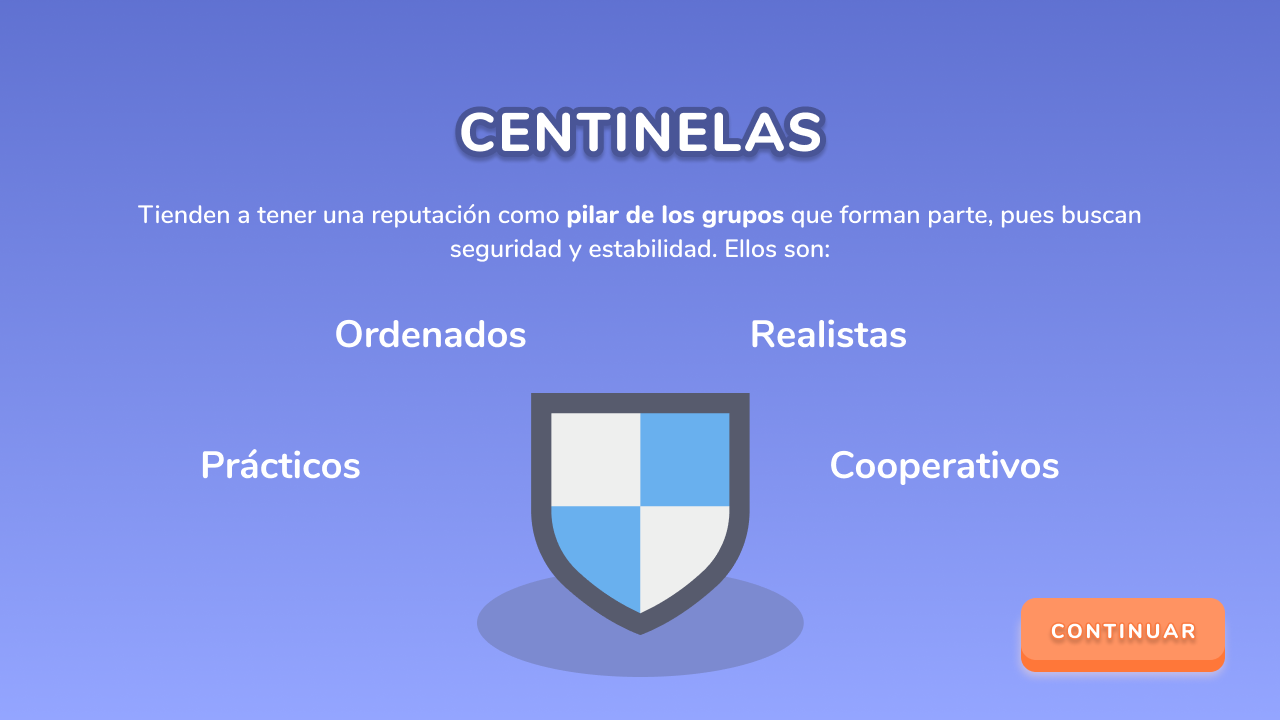
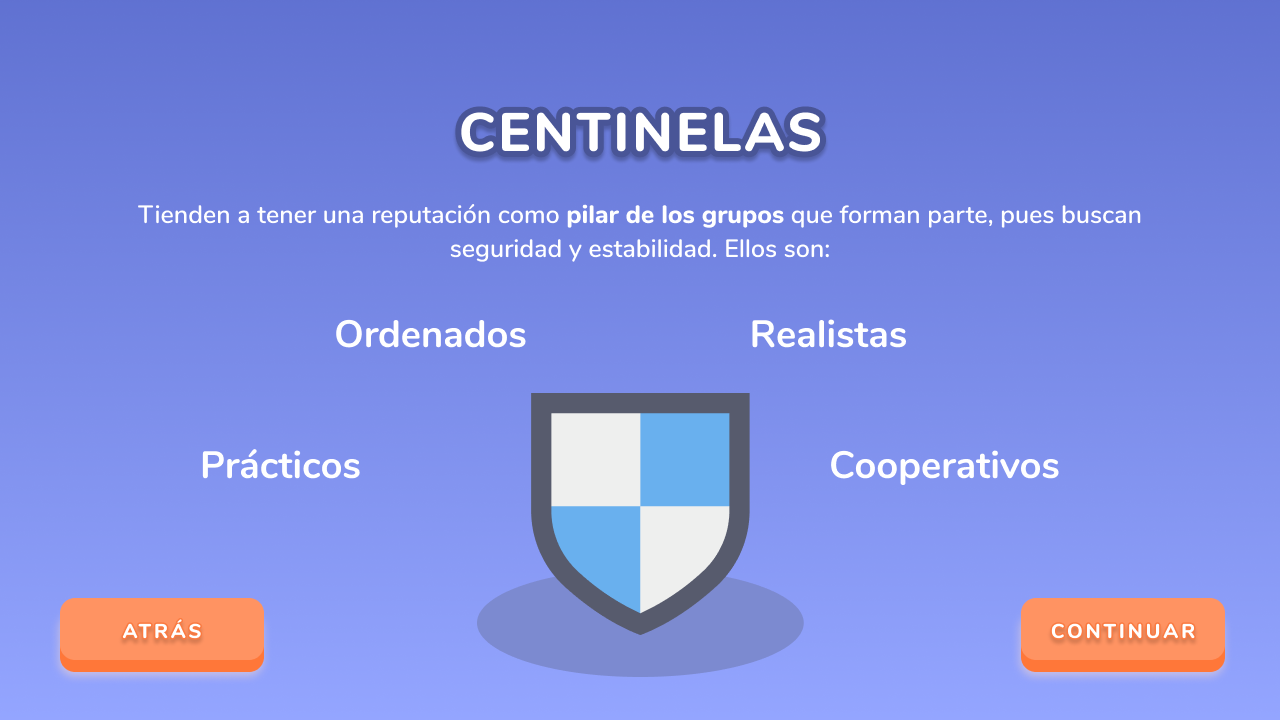
cambios ultimos

Changed region(s): [[0.0312, 0.825, 0.2188, 0.9472]]

diff --git a/Js/main.js b/Js/main.js
@@ -1,5 +1,5 @@
 let pantalla = 0;
-let postulante = 'David';
+let postulante = '';
 let cargo = 'original';
 
 let characters = [];
@@ -17,6 +17,11 @@ let diplomatico;
 let centinela = false;
 let explorador = false;
 
+let viewDavid = false;
+let viewCamila = false;
+let viewJhon = false;
+let viewEstefania = false;
+
 let timer;
 let counter = 300;
 let seconds, minutes;
@@ -24,6 +29,7 @@ let tiempo;
 
 let send = false;
 let wrong = false;
+let adBoolean = false;
 let timeAd = false;
 let locked = false;
 let nivel2 = false;
@@ -35,8 +41,6 @@ let finish = false;
 let validar = true;
 let estado = '';
 let logic = new Logic();
-
-
 
 function setup() {
 
@@ -58,6 +62,8 @@ function preload() {
     instruccionOpciones = loadImage('./resources/instruccionesOpciones.png');
     instruccionArquetipo = loadImage('./resources/arqInt.png');
     instruccionPuesto = loadImage('./resources/puestoInt.png');
+    instrucconError = loadImage('./resources/instruccionesError.png');
+    instruccionInfo = loadImage('./resources/instruccionInfo.png');
     gif1 = loadImage('./resources/nuevoGifDef1.gif');
     gif2 = loadImage('./resources/nuevoGifDef2.gif');
 
@@ -81,6 +87,7 @@ function preload() {
     btnContinuar2 = loadImage('./resources/btnContinuarGris.png');
     btnContinuarPresionado = loadImage('./resources/contPres.png');
     btnFinalizar = loadImage('./resources/btnFinalizar.png');
+    btnAtras = loadImage('./resources/btnAtras.png');
 
     btnArquetipo = loadImage('./resources/BotonArqueotipo.png');
     btnCandidatos = loadImage('./resources/botonCandidatos.png');
@@ -143,6 +150,7 @@ function preload() {
     confirmation = loadImage('resources/Confirmacion.png');
     candidatosBloqueado = loadImage('resources/candidatosBloqueado.png');
     arqueotiposBloqueado = loadImage('resources/arqueotiposBloqueado.png');
+    adCv = loadImage ('resources/viewCandidatos.png');
 
 }
 
@@ -198,6 +206,7 @@ function draw() {
                     break;
             }
             if (nivel2) image(btnVolverNormal, 1022, 610);
+            if(adBoolean) image(adCv,0,0);
             break;
         //INSTRUCCIONES DE TIEMPO
         case 8:
@@ -224,9 +233,9 @@ function draw() {
                 image(btnContinuar2,527, 625);
             }
             logic.paintCharacter();
-            fill(255, 0, 0);
+            fill(255);
             noStroke();
-            text("Errores : " + erroresNivel1, 1085, 130);
+            text(erroresNivel1, 1211, 152);
             break;
         //RESUMEN ARQUETIPO
         case 12:
@@ -267,6 +276,13 @@ function draw() {
             results();
             
             break;
+        case 17:
+            image(instrucconError,0,0);
+
+            break;
+        case 18:
+            image(instruccionInfo,0,0);
+            break;
 
     }
 
@@ -292,36 +308,49 @@ function mouseClicked() {
 
         case 3:
             if (mouseX > 1000 && mouseX < 1215 && mouseY > 600 && mouseY < 675) pantalla = 4;
+            if (mouseX > 60 && mouseX < 264 && mouseY > 598 && mouseY < 672) pantalla = 2;
             break;
 
         case 4:
             if (mouseX > 1000 && mouseX < 1215 && mouseY > 600 && mouseY < 675) pantalla = 5;
+            if (mouseX > 60 && mouseX < 264 && mouseY > 598 && mouseY < 672) pantalla = 3;
             break;
 
         case 5:
             if (mouseX > 1000 && mouseX < 1215 && mouseY > 600 && mouseY < 675) pantalla = 6;
+            if (mouseX > 60 && mouseX < 264 && mouseY > 598 && mouseY < 672) pantalla = 4;
             break;
         case 6:
             if (mouseX > 520 && mouseX < 735 && mouseY > 600 && mouseY < 675) pantalla = 7;
             break;
         case 7:
             if (mouseX > 1030 && mouseX < 1235 && mouseY > 622 && mouseY < 698) {
+                
                 if (nivel1) {
                     pantalla = 11;
 
                 } else {
-                    pantalla = 8;
+                    if(viewEstefania && viewJhon && viewCamila && viewDavid){
+                        pantalla = 8;
+                    }else{
+                        adBoolean = true;
+                    }
                 }
                 if (nivel2) {
                     pantalla = 14;
                 }
             }
+        if(adBoolean){
+            if (mouseX > 538, mouseX < 739 && mouseY > 545 && mouseY < 620) {
+                adBoolean = false;
+            }
+        }
             break;
         case 8:
             if (mouseX > 538 && mouseX < 742 && mouseY > 496 && mouseY < 570) pantalla = 9;
             break;
         case 9:
-            if (mouseX > 538 && mouseX < 742 && mouseY > 496 && mouseY < 570) pantalla = 10;
+            if (mouseX > 538 && mouseX < 742 && mouseY > 496 && mouseY < 570) pantalla = 17;
             break;
         case 10:
             if(mouseX > 1040 && mouseX < 1245 && mouseY > 620 && mouseY < 696){
@@ -354,7 +383,7 @@ function mouseClicked() {
                             puntaje1 = 0;
                         }
                         zoneAdmi = false;
-                        pantalla = 13;
+                        pantalla = 18;
                         nivel1 = false;
                     }
                 }
@@ -455,7 +484,12 @@ function mouseClicked() {
             break;
         case 16:
             //Reiniciar valores 
-
+            break;
+        case 17:
+            if (mouseX > 538 && mouseX < 742 && mouseY > 496 && mouseY < 570) pantalla = 10;
+            break;
+        case 18:
+            if (mouseX > 538 && mouseX < 742 && mouseY > 496 && mouseY < 570) pantalla = 13;
             break;
     }
 
@@ -476,7 +510,7 @@ function mouseClicked() {
                 }
                 estado = "TIEMPO TERMINADO";
         }
-        if (nivel2 ){
+        if (nivel2){
             logic.matchJobs();
             estado = "TIEMPO TERMINADO";
         }
@@ -519,10 +553,22 @@ function mouseMoved() {
                     image(btnVolver, 1020, 610);
                 }
             }
-            if (mouseX > 162 && mouseX < 325 && mouseY > 75 && mouseY < 242) logic.select('David', 244);
-            if (mouseX > 366 && mouseX < 529 && mouseY > 75 && mouseY < 242) logic.select('Camila', 448);
-            if (mouseX > 522 && mouseX < 715 && mouseY > 75 && mouseY < 242) logic.select('Jhon', 633);
-            if (mouseX > 745 && mouseX < 908 && mouseY > 75 && mouseY < 242) logic.select('Estefania', 826);
+            if (mouseX > 162 && mouseX < 325 && mouseY > 75 && mouseY < 242) {
+                viewDavid = true
+                logic.select('David', 244) 
+            } 
+            if (mouseX > 366 && mouseX < 529 && mouseY > 75 && mouseY < 242){
+                viewCamila = true;
+                logic.select('Camila', 448);
+            } 
+            if (mouseX > 522 && mouseX < 715 && mouseY > 75 && mouseY < 242) {
+                viewJhon = true;
+                logic.select('Jhon', 633);
+            }
+            if (mouseX > 745 && mouseX < 908 && mouseY > 75 && mouseY < 242){
+                viewEstefania = true;
+                logic.select('Estefania', 826);
+            } 
             break;
         case 8:
             if (mouseX > 538 && mouseX < 742 && mouseY > 496 && mouseY < 570) image(btnOk, 528, 496);
@@ -561,7 +607,19 @@ function mouseMoved() {
         case 15:
             if (mouseX > 539 && mouseX < 743 && mouseY > 453 && mouseY < 527) image(btnResultados, 530, 453);
             break;
+        case 17:
+            if (mouseX > 538 && mouseX < 742 && mouseY > 496 && mouseY < 570) image(btnOk, 528, 493);
+            break;
+        case 18:
+            if (mouseX > 538 && mouseX < 742 && mouseY > 496 && mouseY < 570) image(btnOk, 528, 493);
+            break;
 
+    }
+
+    if(pantalla === 3 || pantalla === 4 || pantalla === 5){
+        if (mouseX > 60 && mouseX < 264 && mouseY > 598 && mouseY < 672){
+            image(btnAtras,50,598);
+        }
     }
 
 }
@@ -584,7 +642,7 @@ function mouseDragged() {
             if (characters[2].getPosX() === mouseX && mouseY) {
                 posicion = 3;
             }
-            //ANALISTA
+            //ESTEFANIA
             if (characters[3].getPosX() === mouseX && mouseY) {
                 posicion = 4;
             }
@@ -672,10 +730,6 @@ function time() {
         }
         text(minutes + " " + ":" + cero + seconds, 1118, 70);
     }
-
-
-
-
 }
 
 function ad() {
@@ -718,6 +772,12 @@ function ad() {
 
     }
 
+    if(adBoolean){
+        if (mouseX > 538, mouseX < 739 && mouseY > 545 && mouseY < 620) {
+        image(buttonEntendido,528, 545);
+        }
+    }
+
     if (send) {
         image(confirmation, 0, 0);
         if (mouseX > 380, mouseX < 585 && mouseY > 360 && mouseY < 434) {
@@ -758,11 +818,9 @@ function results(){
     totalErrores = erroresNivel1 + erroresNivel2;
     totalPuntaje = puntaje1 + puntaje2;
     tiempo = counter;
-    
-    text(totalErrores, 540, 290);
+    text(totalErrores, 660, 337);
     //text(totalPuntaje+"/200", 496, 281);
-    text(minutes+" : "+seconds,512,389);
-
+    //text(minutes+" : "+seconds,512,389);
     //text("Repeticiones Nivel1: " + repeticionesNivel1, 680, 429);
     //text("Estado: "+estado,680,500);
 }
